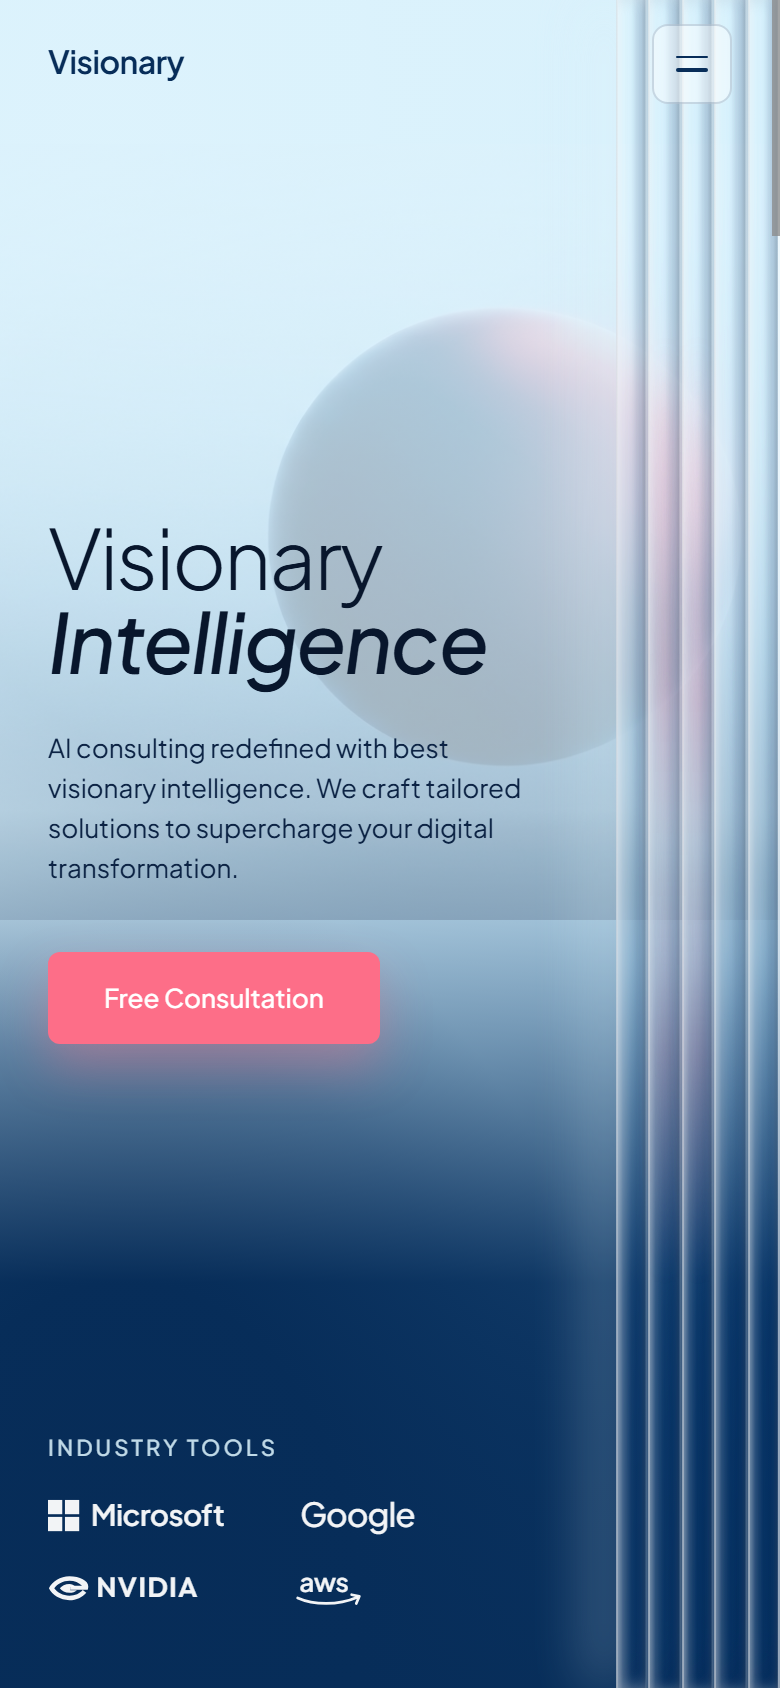
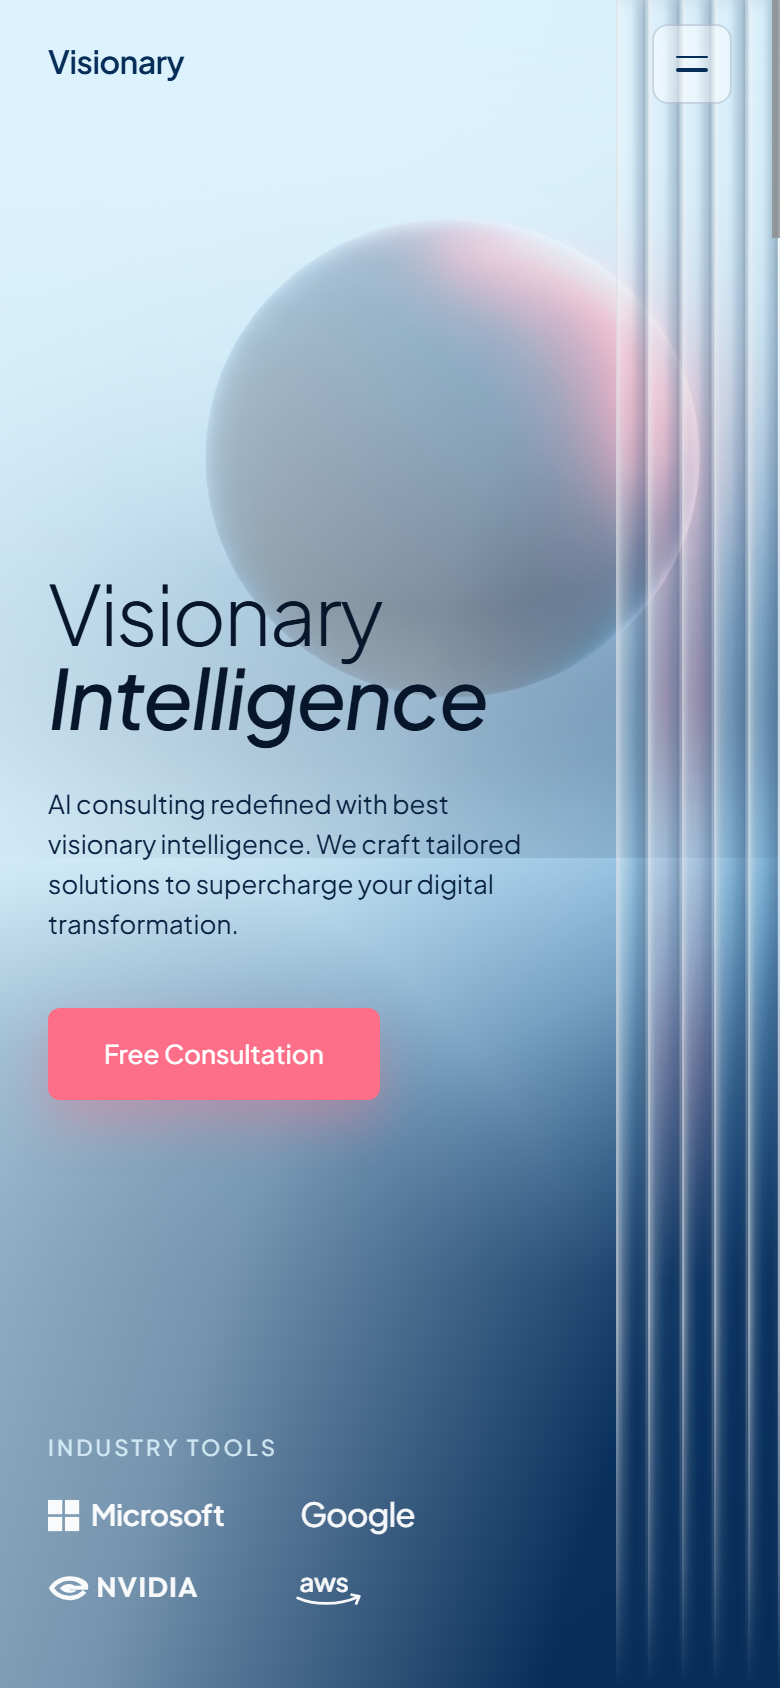
style(aiconsulting_sealblue+navyblue+crimsonpink): refine fluted glass mask, mobile hero spacing, and screenshots

diff --git a/aiconsulting_sealblue+navyblue+crimsonpink/styles.css b/aiconsulting_sealblue+navyblue+crimsonpink/styles.css
@@ -240,14 +240,19 @@ img {
 /* HERO */
 .hero {
   position: relative;
-  height: 100dvh;
+  height: clamp(760px, 100dvh, 900px);
   min-height: 760px;
-  max-height: 980px;
   overflow: hidden;
   background:
     radial-gradient(ellipse 78% 66% at 14% 10%, #E3F5FE 0%, rgba(219, 242, 252, 0.94) 46%, transparent 80%),
     radial-gradient(ellipse 72% 48% at 16% 96%, #052246 0%, #072D59 42%, rgba(25, 76, 128, 0.72) 72%, transparent 94%),
     linear-gradient(156deg, #DBF2FC 0%, #CBEAFB 34%, #82BAE0 62%, #194E86 84%, #072D59 100%);
+}
+
+@media (min-width: 1600px) and (min-height: 960px) {
+  .hero {
+    height: 100dvh;
+  }
 }
 
 .hero-backdrop {
@@ -301,6 +306,8 @@ img {
   z-index: 3;
   display: grid;
   grid-template-columns: repeat(5, minmax(0, 1fr));
+  mask-image: linear-gradient(to bottom, #000 0%, #000 78%, rgba(0, 0, 0, 0.45) 93%, transparent 100%);
+  -webkit-mask-image: linear-gradient(to bottom, #000 0%, #000 78%, rgba(0, 0, 0, 0.45) 93%, transparent 100%);
 }
 
 .flute-rib {
@@ -1053,20 +1060,20 @@ h2 {
     max-height: none;
   }
   .hero-sphere-img {
-    top: 72px;
-    right: -28%;
-    height: 46%;
-    opacity: 0.92;
-    mask-image: radial-gradient(ellipse 84% 86% at 62% 50%, #000 45%, transparent 96%);
-    -webkit-mask-image: radial-gradient(ellipse 84% 86% at 62% 50%, #000 45%, transparent 96%);
+    top: 24px;
+    right: -24%;
+    height: 48%;
+    opacity: 0.96;
+    mask-image: radial-gradient(ellipse 68% 68% at 62% 48%, #000 32%, rgba(0, 0, 0, 0.55) 60%, transparent 88%);
+    -webkit-mask-image: radial-gradient(ellipse 68% 68% at 62% 48%, #000 32%, rgba(0, 0, 0, 0.55) 60%, transparent 88%);
   }
   .sphere-refraction-glow {
     left: auto;
-    right: 4%;
-    width: 130px;
-    top: 12%;
+    right: 2%;
+    width: 120px;
+    top: 8%;
     height: 36%;
-    opacity: 0.7;
+    opacity: 0.78;
   }
   .fluted-curtain {
     left: auto;
@@ -1077,16 +1084,11 @@ h2 {
   }
   .hero-left-scrim {
     background:
-      linear-gradient(
-        180deg,
-        rgba(219, 242, 252, 0.82) 0%,
-        rgba(219, 242, 252, 0.72) 48%,
-        rgba(7, 45, 89, 0.84) 76%,
-        rgba(7, 45, 89, 0.96) 100%
-      );
+      linear-gradient(108deg, rgba(219, 242, 252, 0.86) 0%, rgba(219, 242, 252, 0.52) 48%, transparent 82%),
+      linear-gradient(180deg, rgba(219, 242, 252, 0.34) 0%, transparent 48%, rgba(7, 45, 89, 0.84) 76%, rgba(7, 45, 89, 0.96) 100%);
   }
   .hero-inner {
-    padding: 108px 24px 40px;
+    padding: 164px 24px 40px;
     min-height: 100dvh;
     gap: 44px;
   }

diff --git a/aiconsulting_sealblue+navyblue+crimsonpink/index.html b/aiconsulting_sealblue+navyblue+crimsonpink/index.html
@@ -171,10 +171,12 @@
         >
           <div class="service-lead">
             <span class="phase-tag" id="phase-tag">Phase 01 · Advisory &amp; Feasibility</span>
-            <h3 class="phase-title" id="phase-title">Data readiness, unit economics, and model selection</h3>
-            <p class="phase-desc" id="phase-desc">
-              We audit internal telemetry, quantify inference cost per workflow, and lock governance guardrails before committing engineering budget.
-            </p>
+            <div class="service-copy">
+              <h3 class="phase-title" id="phase-title">Data readiness, unit economics, and model selection</h3>
+              <p class="phase-desc" id="phase-desc">
+                We audit internal telemetry, quantify inference cost per workflow, and lock governance guardrails before committing engineering budget.
+              </p>
+            </div>
             <dl class="phase-metrics">
               <div>
                 <dd class="metric-figure metric-figure--loud" id="phase-m1-val">3 weeks</dd>
